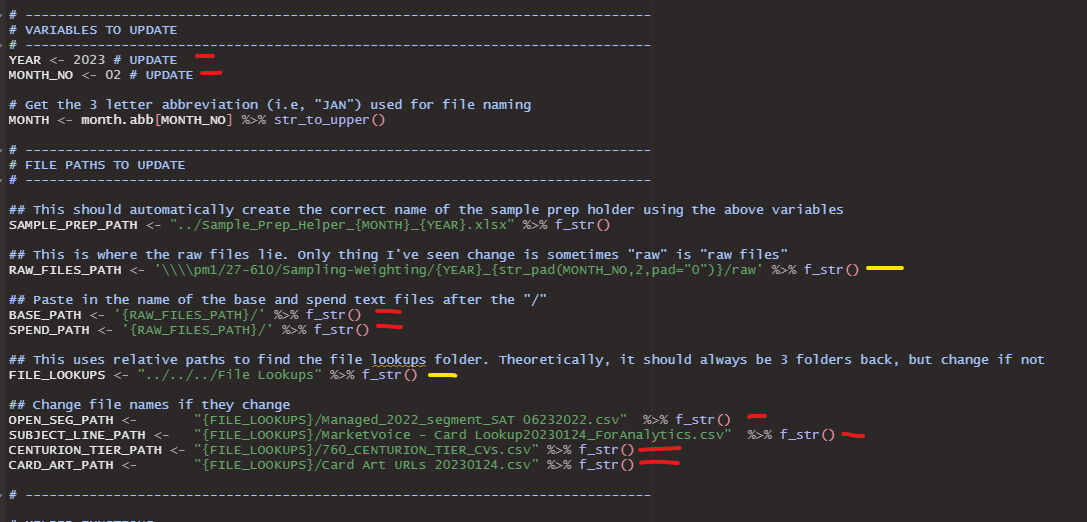
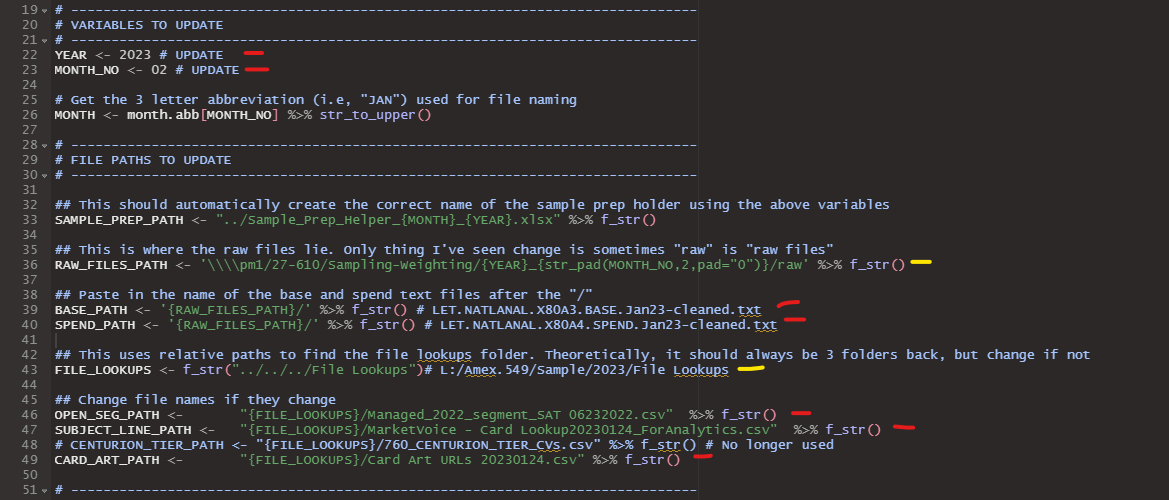
May Updates

Changed region(s): [[0.0, 0.0, 0.9715, 1.0]]

diff --git a/ReadMe.md b/ReadMe.md
@@ -100,7 +100,7 @@ As a note, Rstudio has version control integrated into it with a user interface.
 
 # Folder Strcture
 
--   **Consumer BD**
+-   **USCS-Sample-Prep**
     -   `Sample_Prep_Helper_MONTH_YEAR.xlsx` - Contains important infomration on requested frenquecies of the Cell Codes and Marketer Codes, weighting categories, valid DMA codes, and expected ranges of tenure and account spend for augment cells. This information is used for checking if the data lines up with what is requested.
     -   **Scripts** : Scripts for preparing samples
         -   `Config_and_Helpers.R` - Contains helper functions and file paths for the main scripts
